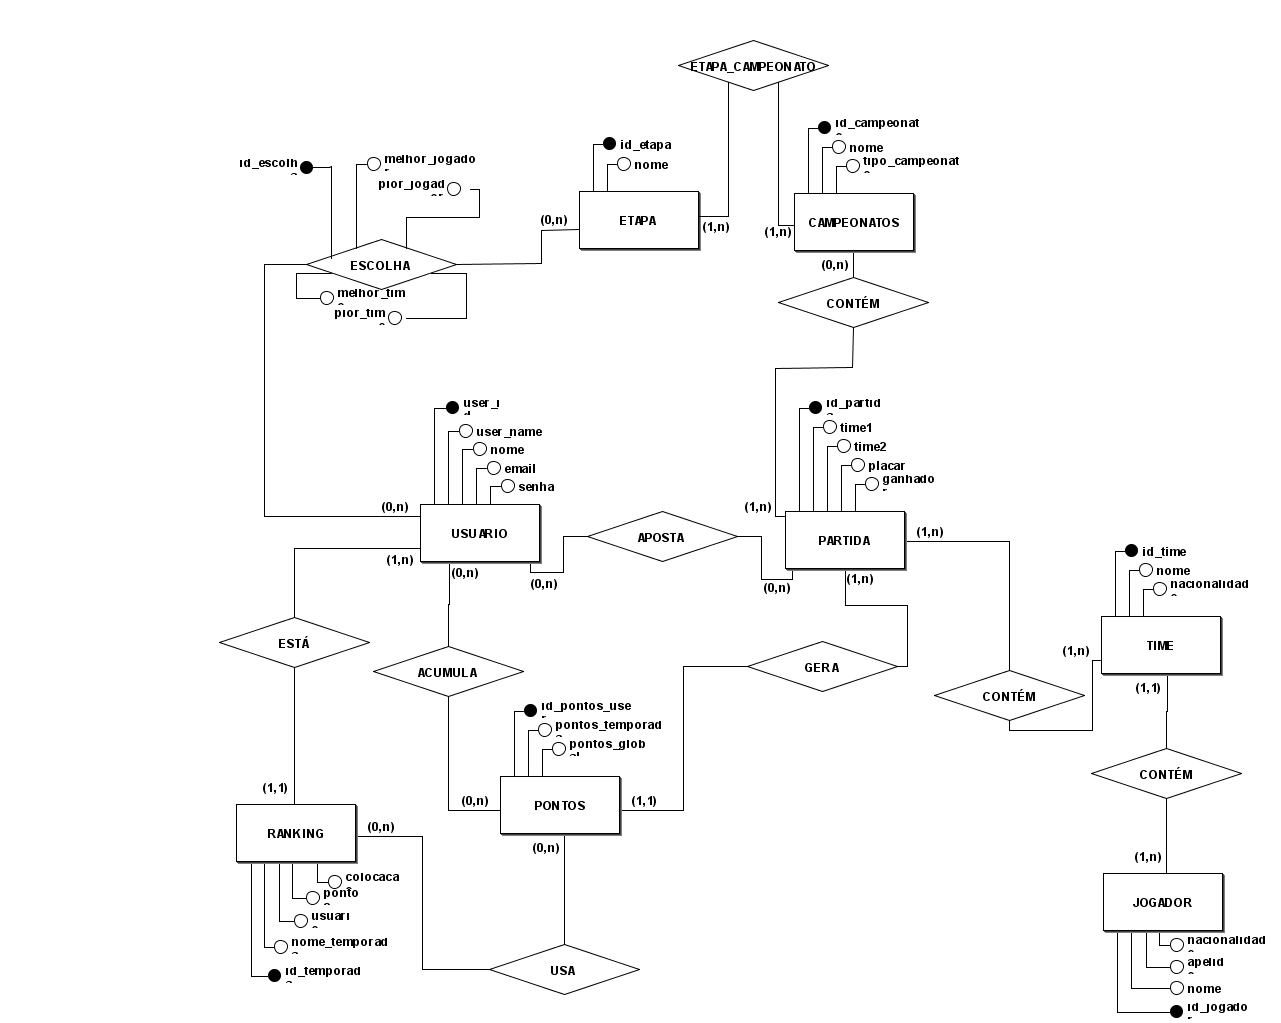
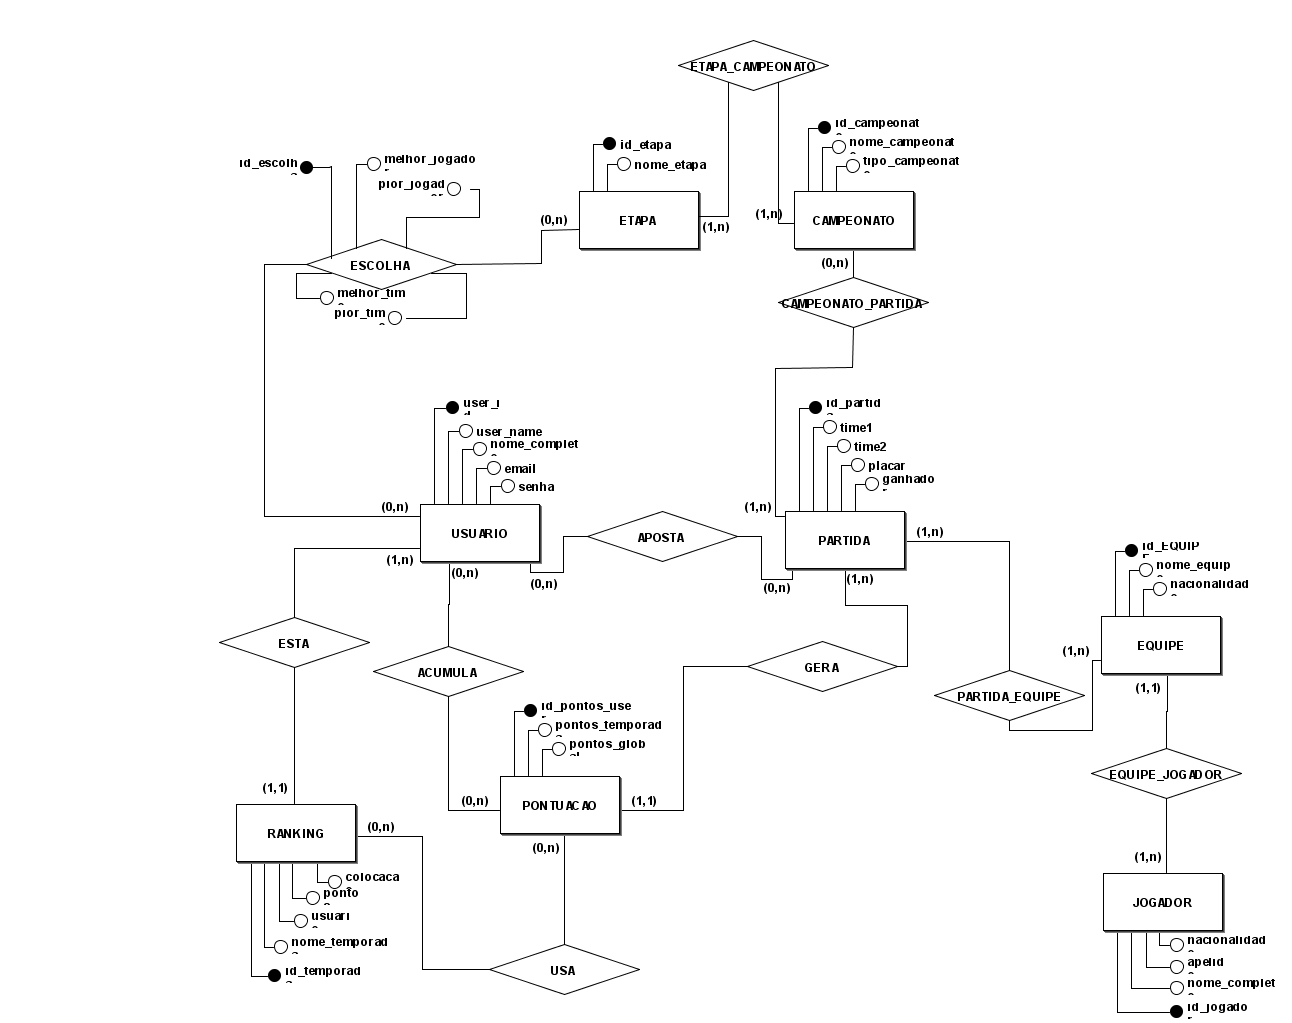
Atualizando: Imagens, Readme, descricao_dados

diff --git a/README.md b/README.md
@@ -1,39 +1,36 @@
-# TRABALHO 01
-Trabalho desenvolvido durante a disciplina de BD
+# PickFantasy
 
 # Sumário
 
 ### 1.COMPONENTES<br>
-Integrantes do grupo <br>
 Ezequiel F. Mapel: ezequiel.f.mapel@gmail.com<br>
 Pedro Henrique T. dos Santos: pedroso.hts@gmail.com<br>
 
 ### 2.INTRODUÇÃO E MOTIVAÇAO<br>
-## INTRODUÇÃO -
-&emps; &emps; &emps; **PickFantasy** é um jogo de esporte fantasia, no qual ações da
+### INTRODUÇÃO -
+&emsp; &emsp; **PickFantasy** é um jogo de esporte fantasia, no qual ações da
 vida real influência nos resultados. Um bom exemplo é o CartolaFC. Porém, os resultados
-são baseados em jogos de E-Sports(esportes eletrônicos).
+são baseados em jogos de E-Sports(esportes eletrônicos), como por exemplo, <a href="http://br.leagueoflegends.com/pt/" target="_blank">League of Legends</a> ou <a href="https://www.faceit.com/pt/csgo" target="_blank">Counter-Strike GO</a>.
 <br>
-## MOTIVAÇAO -
-&emps; &emps; &emps; A categoria E-Sports vem crescendo no mercado brasileiro e no mundo. Em 2016 no EUA, a categoria arrecadou cerca de R$1,5 bilhões é esperado para 2017 a quantia de cerca de R$ 2,15 bilhões e em 2020, essa quantia pode chegar a R$ 4,3 bilhões. É um fato que o E-Sports, está em um crescimento exponencial e por isso quisemos focar nosso trabalho nesse mundo e algo que o envolve, pode ter uma grande probabilidade de ser bem aceito.
+### MOTIVAÇAO -
+&emsp; &emsp; A categoria E-Sports vem crescendo no mercado brasileiro e no mundo. Em 2016 no EUA, a categoria arrecadou cerca de R$ 1,5 bilhões é esperado para 2017 a quantia de cerca de R$ 2,15 bilhões e em 2020, essa quantia pode chegar a R$ 4,3 bilhões. É um fato que o E-Sports, está em um crescimento exponencial e por isso quisemos focar nosso trabalho nesse mundo e algo que o envolve, pode ter uma grande probabilidade de ser bem aceito.
 
 ### 3.MINI-MUNDO<br>
 Escreve ae <br>
 
 ### 4.RASCUNHOS BÁSICOS DA INTERFACE (MOCKUPS)<br>
 
-![Alt text](https://github.com/trabpickf/Trabalho01/tree/master/imagens/mockup.png?raw=true "Pagina 1 Mockup")
+<img src="https://raw.githubusercontent.com/trabpickf/Trabalho01/master/imagens/mockup.png"/>
 
 ![Clique aqui!](https://github.com/trabpickf/Trabalho01/tree/master/arquivos/PickEmFantasy.pdf?raw=true "Modelo completo") Para visualizar o modelo completo.
 
 #### 4.1 TABELA DE DADOS DO SISTEMA:
-    ![Clique aqui](https://github.com/trabpickf/Trabalho01/tree/master/arquivos/tabela.ods?raw=true "Tabela CALC") caso queira acessar a tabela.
+   ![Clique aqui!](https://github.com/trabpickf/Trabalho01/tree/master/arquivos/tabela.ods?raw=true "Tabela CALC") Caso queira acessar a tabela.
     
-    
-
+   
 ### 5.MODELO CONCEITUAL<br>
 
-![Alt text](https://github.com/trabpickf/Trabalho01/tree/master/imagens/ModeloConceitual.png?raw=true "Modelo Conceitual")
+![Alt text](https://raw.githubusercontent.com/trabpickf/Trabalho01/master/imagens/ModeloConceitual.png?raw=true "Modelo Conceitual")
     
     b) NOTACAO UML (Caso esteja fazendo a disciplina de analise)
 
@@ -41,40 +38,24 @@ Escreve ae <br>
     [Grupo01]: [Nomes dos que participaram na avaliação]
     [Grupo02]: [Nomes dos que participaram na avaliação]
 
-#### 5.2 DECISÕES DE PROJETO
-    [atributo]: [descrição da decisão]
-    
-    EXEMPLO:
-    a) Campo endereço: em nosso projeto optamos por um campo multivalorado e composto, pois a empresa 
-    pode possuir para cada departamento mais de uma localização... 
-    b) justifique!
-
 #### 5.3 DESCRIÇÃO DOS DADOS 
-    ![Clique aqui!](https://github.com/trabpickf/Trabalho01/tree/master/arquivos/Descricao_Dados.docx?raw=true "Script INSERT") Para acessar a descrição dos dados.
+   ![Clique aqui!](https://github.com/trabpickf/Trabalho01/blob/master/arquivos/descricao_dados?raw=true "Descrição dos dados") Para acessar a descrição dos dados.
 
 <hr>
 
 ### 6	MODELO LÓGICO<br>
-![Alt text](https://github.com/trabpickf/Trabalho01/tree/master/imagens/ModeloLogico.png?raw=true "Modelo Logico")
+![Alt text](https://raw.githubusercontent.com/trabpickf/Trabalho01/master/imagens/ModeloLogico.png?raw=true "Modelo Logico")
 ### 7	MODELO FÍSICO<br>    
 ![Clique aqui!](https://github.com/trabpickf/Trabalho01/tree/master/arquivos/modelo_fisico.sql?raw=true "Modelo Físico") Para acessar o script do modelo físico.
  
 ### 8	INSERT APLICADO NAS TABELAS DO BANCO DE DADOS<br>
 ![Clique aqui!](https://github.com/trabpickf/Trabalho01/tree/master/arquivos/script_insert.sql?raw=true "Script INSERT") Para acessar o script do INSERT.
 
-#### 8.1 DETALHAMENTO DAS INFORMAÇÕES
-        Detalhamento sobre as informações e processo de obtenção ou geração dos dados.
-        Referenciar todas as fontes referentes a :
-        a) obtenção dos dados
-        b) obtenção de códigos reutilizados
-        c) fontes de estudo para desenvolvimento do projeto
-
-## Entrega até este ponto em (20/09/2017)
         
 #### 8.2 INCLUSÃO DO SCRIPT PARA CRIAÇÃO DE TABELA E INSERÇÃO DOS DADOS<br>
-		![Clique aqui!](https://github.com/trabpickf/Trabalho01/tree/master/arquivos/modelo_fisico.sql?raw=true "Modelo Logico") Para acessar o script do modelo físico. <br>
+![Clique aqui!](https://github.com/trabpickf/Trabalho01/tree/master/arquivos/modelo_fisico.sql?raw=true "Modelo Logico") Para acessar o script do modelo físico. <br>
 		
-		![Clique aqui!](https://github.com/trabpickf/Trabalho01/tree/master/arquivos/script_insert.sql?raw=true "Script INSERT") Para acessar o script do INSERT.
+![Clique aqui!](https://github.com/trabpickf/Trabalho01/tree/master/arquivos/script_insert.sql?raw=true "Script INSERT") Para acessar o script do INSERT.
 		
 		
 
